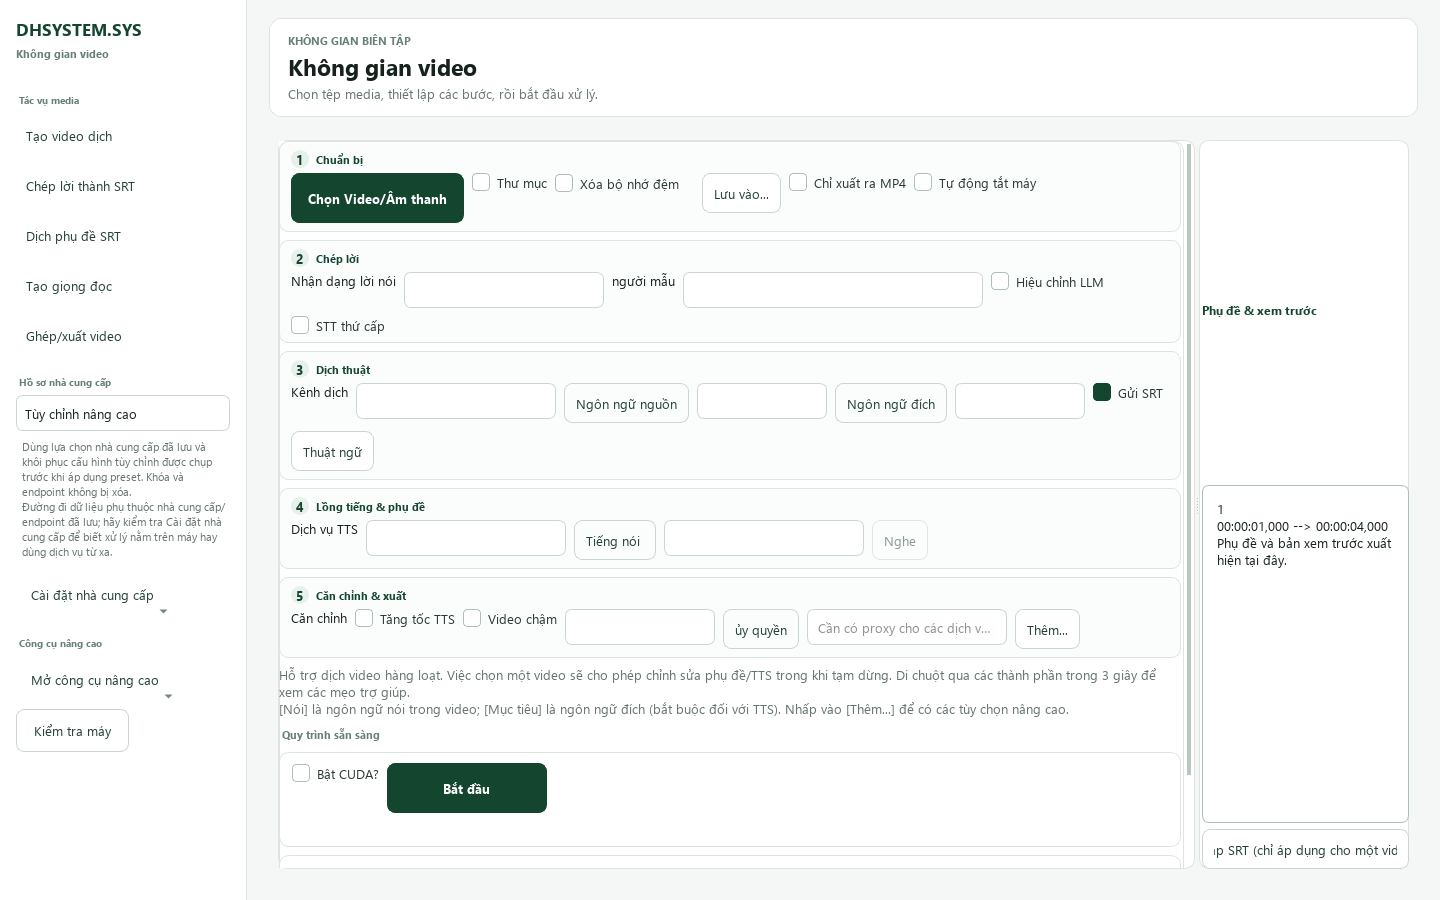
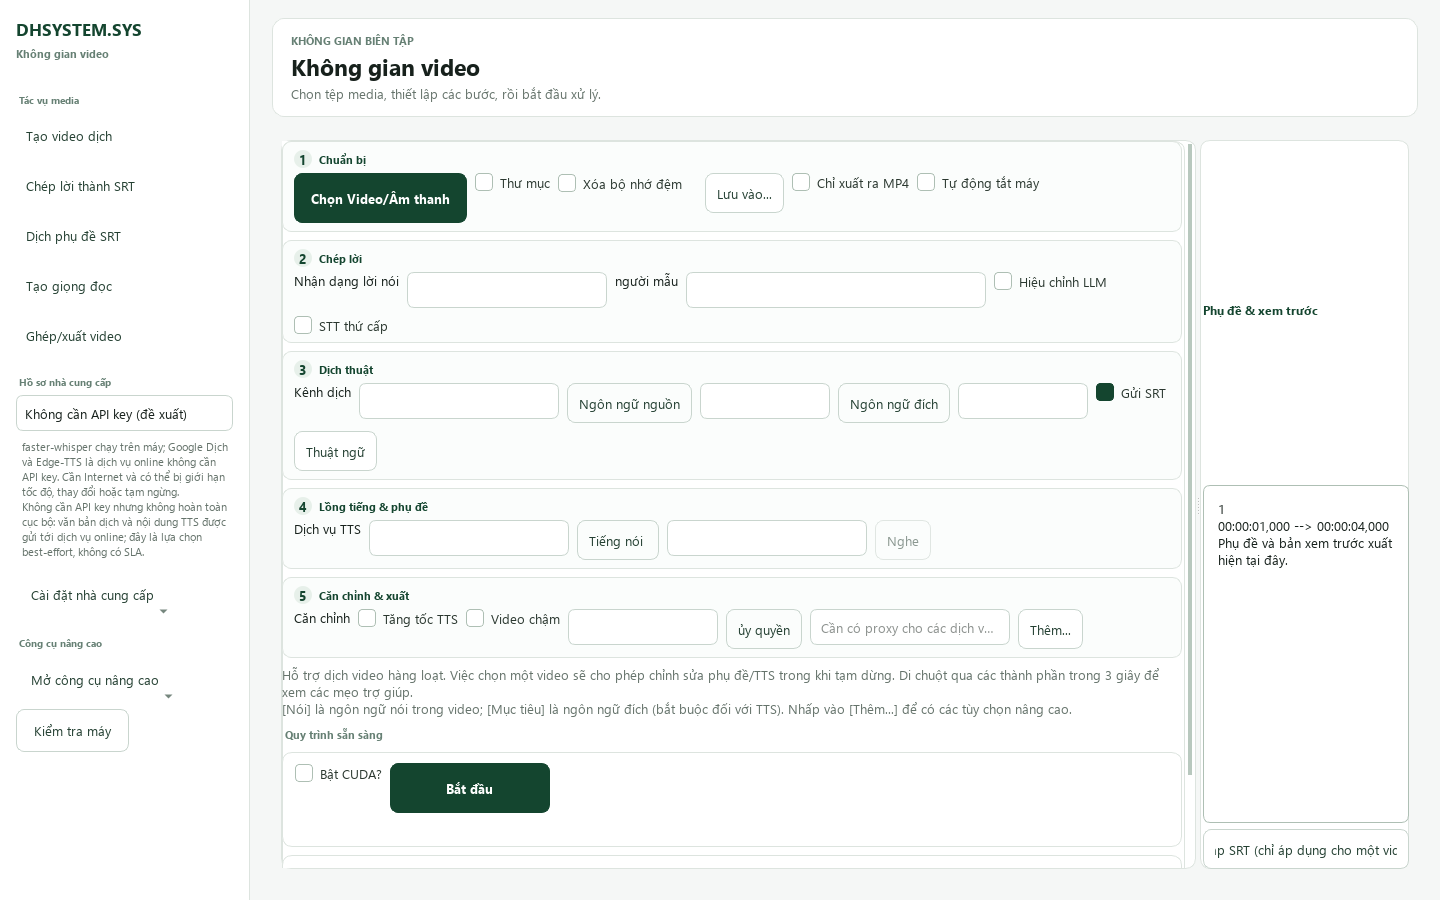
docs(providers): explain no-key and API cost boundaries

diff --git a/tests/test_light_workspace.py b/tests/test_light_workspace.py
@@ -6,7 +6,9 @@ from PySide6.QtGui import QAction
 from PySide6.QtWidgets import QApplication, QMainWindow, QMessageBox, QMenu, QToolBar, QWidget
 
 from videotrans.ui.en import Ui_MainWindow
-from videotrans.ui.provider_profiles import PROFILE_CUSTOM, PROFILE_GEMINI, PROFILE_LOCAL
+from videotrans.ui.provider_profiles import (
+    PROFILE_CUSTOM, PROFILE_GEMINI, PROFILE_LOCAL, PROFILE_NO_KEY,
+)
 from videotrans.ui import workspace_shell
 from videotrans.ui.workspace_shell import WorkspaceShell
 
@@ -189,6 +191,41 @@ def test_remote_profile_explains_privacy_quota_and_fallback_before_apply(monkeyp
     assert "quota" in prompt
     assert "data policy" in prompt or "chính sách dữ liệu" in prompt
     assert "fallback" in prompt or "dự phòng" in prompt
+
+
+def test_no_key_profile_discloses_online_best_effort_limits_before_apply(monkeypatch):
+    class ProfileWindow(_WindowDouble):
+        def __init__(self):
+            super().__init__()
+            self.profile = PROFILE_CUSTOM
+            self.applied = []
+
+        def current_provider_profile(self):
+            return self.profile
+
+        def apply_provider_profile(self, profile):
+            self.applied.append(profile)
+            self.profile = profile
+
+    prompts = []
+    monkeypatch.setattr(
+        QMessageBox,
+        "question",
+        lambda *args: prompts.append(args[2]) or QMessageBox.StandardButton.Yes,
+    )
+    window = ProfileWindow()
+    shell = WorkspaceShell(window, QWidget())
+
+    shell.provider_profile.setCurrentIndex(
+        shell.provider_profile.findData(PROFILE_NO_KEY)
+    )
+
+    assert window.applied == [PROFILE_NO_KEY]
+    prompt = prompts[0].lower()
+    assert "api key" in prompt
+    assert "internet" in prompt
+    assert "rate" in prompt or "giới hạn" in prompt
+    assert shell.provider_settings.toolTip()
 
 
 @pytest.mark.parametrize("endpoint", ("", "https://api.example.com/v1", "http://192.168.1.20:8000/v1"))

diff --git a/tests/test_provider_visibility.py b/tests/test_provider_visibility.py
@@ -3,12 +3,15 @@ import os
 os.environ.setdefault("QT_QPA_PLATFORM", "offscreen")
 
 import pytest
+from PySide6.QtCore import Qt
 from PySide6.QtWidgets import QApplication, QComboBox
 
 from videotrans import recognition, translator, tts
+from videotrans.configure._i18n import tr
 from videotrans.ui.provider_visibility import (
     CUSTOM_ENDPOINT,
     LOCAL_MODEL,
+    LOCAL_SERVICE,
     ONLINE_NO_KEY,
     PROVIDER_API,
     RECOGNITION,
@@ -120,6 +123,30 @@ def test_access_categories_distinguish_bundled_online_and_paid_api_paths():
     assert provider_access(TTS, tts.TTS_API).category == CUSTOM_ENDPOINT
     assert provider_access(TTS, tts.EDGE_TTS).api_key_required is False
     assert provider_access(TRANSLATION, translator.CHATGPT_INDEX).provider_charge_possible is True
+
+
+@pytest.mark.parametrize(
+    ("kind", "names"),
+    (
+        (TRANSLATION, translator.TRANSLASTE_NAME_LIST),
+        (RECOGNITION, recognition.RECOGN_NAME_LIST),
+        (TTS, tts.TTS_NAME_LIST),
+    ),
+)
+def test_every_provider_row_has_localized_cost_readiness_guidance(kind, names):
+    combo = QComboBox()
+    combo.addItems(names)
+
+    apply_combo_visibility(combo, kind)
+
+    for provider_id in range(len(names)):
+        access = provider_access(kind, provider_id)
+        assert access.category in {
+            LOCAL_MODEL, ONLINE_NO_KEY, PROVIDER_API, LOCAL_SERVICE, CUSTOM_ENDPOINT,
+        }
+        assert combo.itemData(provider_id, Qt.ItemDataRole.ToolTipRole) == tr(
+            access.guidance_key
+        )
 
 
 def test_settings_menu_policy_hides_china_focused_actions_but_can_restore_them():

diff --git a/videotrans/ui/provider_visibility.py b/videotrans/ui/provider_visibility.py
@@ -207,6 +207,9 @@ def visible_provider_ids(kind: str, *, show_all: bool = False, selected_id: int 
 
 def apply_combo_visibility(combo, kind: str, *, show_all: bool = False):
     """Hide model rows in place and return the IDs that remain visible."""
+    from PySide6.QtCore import Qt
+    from videotrans.configure._i18n import tr
+
     _validate_kind(kind)
     registry_ids = tuple(_REGISTRIES[kind])
     if combo.count() != len(registry_ids):
@@ -219,6 +222,11 @@ def apply_combo_visibility(combo, kind: str, *, show_all: bool = False):
     ))
     view = combo.view()
     for provider_id in registry_ids:
+        combo.setItemData(
+            provider_id,
+            tr(provider_access(kind, provider_id).guidance_key),
+            Qt.ItemDataRole.ToolTipRole,
+        )
         view.setRowHidden(provider_id, provider_id not in visible)
     return tuple(provider_id for provider_id in registry_ids if provider_id in visible)
 

diff --git a/scripts/capture_readme_screenshots.py b/scripts/capture_readme_screenshots.py
@@ -34,11 +34,16 @@ from videotrans.ui.en import Ui_MainWindow
 from videotrans.ui.home import HomePage
 from videotrans.ui.systemcheck import Ui_systemcheck
 from videotrans.ui.workspace_shell import WorkspaceShell
+from videotrans.ui.provider_profiles import PROFILE_NO_KEY
 
 
 class _GeneratedWindow(QMainWindow, Ui_MainWindow):
     def show_home(self):
         """WorkspaceShell requires the same route exposed by MainWindow."""
+
+    def current_provider_profile(self):
+        """Keep documentation captures on the fresh-install recommendation."""
+        return PROFILE_NO_KEY
 
 
 def _save_widget(app: QApplication, widget, path: Path, size: tuple[int, int]) -> None:

diff --git a/videotrans/ui/workspace_shell.py b/videotrans/ui/workspace_shell.py
@@ -93,6 +93,7 @@ class WorkspaceShell(QWidget):
         self.provider_settings = QToolButton(sidebar)
         self.provider_settings.setObjectName("workspaceProviderSettings")
         self.provider_settings.setText(tr("Provider settings"))
+        self.provider_settings.setToolTip(tr("Provider visibility guidance"))
         self.provider_settings.setToolButtonStyle(Qt.ToolButtonStyle.ToolButtonTextOnly)
         self.provider_settings.setPopupMode(QToolButton.ToolButtonPopupMode.InstantPopup)
         self.provider_settings.setMenu(self._build_provider_settings())

diff --git a/README.md b/README.md
@@ -7,7 +7,7 @@
 [![Version](https://img.shields.io/badge/version-4.14-14452F)](pyproject.toml)
 [![Python](https://img.shields.io/badge/Python-3.10%E2%80%933.12-3776AB?logo=python&logoColor=white)](docs/runtime-matrix.md)
 [![Windows](https://img.shields.io/badge/Windows-portable%20%7C%20setup-0078D4?logo=windows)](docs/huong-dan-cai-dat-windows.md)
-[![Tests](https://img.shields.io/badge/tests-705%20passed-success)](.DHSYSTEM/TRACKER.md)
+[![Tests](https://img.shields.io/badge/tests-726%20passed-success)](.DHSYSTEM/TRACKER.md)
 [![License](https://img.shields.io/badge/license-GPL--3.0-blue)](LICENSE)
 
 [Bắt đầu](#bắt-đầu-nhanh) · [Tính năng](#tính-năng-chính) · [CLI](#dòng-lệnh-cli) · [WebUI](#webui) · [Tài liệu](#tài-liệu) · [Trạng thái](#trạng-thái-hiện-tại)
@@ -94,6 +94,8 @@ Luồng cơ bản cho một video:
 4. **Lồng tiếng & phụ đề:** chọn dịch vụ TTS, giọng đọc và kiểu phụ đề. Chọn `No` nếu không cần lồng tiếng.
 5. **Căn chỉnh & xuất:** kiểm tra tùy chọn thời gian, nhấn **Bắt đầu**, rồi đọc biên nhận đầu ra khi hoàn tất.
 
+Hồ sơ mặc định **Không cần API key (đề xuất)** dùng faster-whisper trên máy, Google Dịch và Edge-TTS. Đây là cách bắt đầu không cần mua/nạp API, nhưng Google Dịch và Edge-TTS vẫn là dịch vụ online best-effort: cần Internet, có thể bị giới hạn tốc độ, thay đổi hoặc tạm ngừng và không có SLA. faster-whisper không tốn phí API nhưng lần đầu phải tải model và dùng tài nguyên máy.
+
 Profile **Cục bộ** chỉ được coi là local-only khi endpoint Local LLM dùng loopback (`localhost`, `127.0.0.1` hoặc `::1`). Gemini/OpenRouter và các API từ xa có thể gửi dữ liệu ra khỏi máy; hãy đọc chính sách của provider trước khi dùng nội dung nhạy cảm.
 
 Hướng dẫn thao tác, phụ đề, VieNeu và xử lý lỗi: [Kiểm thử và sử dụng](docs/huong-dan-test-va-su-dung.md).
@@ -146,6 +148,8 @@ Không commit mật khẩu. Nếu đưa WebUI ra Internet, đặt HTTPS ở reve
 
 ## Provider và mô hình
 
+Giao diện mặc định chỉ hiện nhóm provider phổ biến cho Việt Nam/quốc tế. Các tích hợp Trung Quốc hoặc ít dùng hơn **không bị xóa**: bật **Hiện tất cả nhà cung cấp** trong một trong ba menu Cài đặt dịch/nhận dạng/lồng tiếng để khôi phục toàn bộ 29 kênh dịch, 33 kênh nhận dạng và 38 kênh TTS. Lựa chọn cũ nằm ngoài danh sách rút gọn vẫn được giữ nguyên và luôn hiện khi đang được chọn.
+
 | Nhóm | Ví dụ được tích hợp | Ghi chú |
 | --- | --- | --- |
 | Nhận dạng | faster-whisper, Whisper/OpenAI, WhisperX, Qwen, Deepgram, Azure, Google | Local và cloud; model lớn cần thêm tài nguyên. |
@@ -153,7 +157,17 @@ Không commit mật khẩu. Nếu đưa WebUI ra Internet, đặt HTTPS ở reve
 | Giọng đọc | Edge TTS, OpenAI-compatible, Azure, ElevenLabs, F5-TTS, GPT-SoVITS, VieNeu pilot | Một số kênh cần server/model chạy riêng hoặc khóa API. |
 | Công cụ media | FFmpeg/ffprobe, tách giọng, ghép audio/video/SRT, căn phụ đề | FFmpeg được bundle trong bản Windows. |
 
-Danh sách có thể thay đổi theo code và cấu hình. Dùng `cli.py --list providers` hoặc menu **Cài đặt nhà cung cấp** để xem dữ liệu chính xác của bản đang chạy. Không có API key, model có giấy phép chưa xác minh hay dữ liệu người dùng nào được bundle vào gói phân phối.
+Ý nghĩa nhãn và chi phí:
+
+| Nhãn/loại | Dùng ngay? | Chi phí thực tế |
+| --- | --- | --- |
+| `local · cần tải model` | Chưa chắc; ứng dụng có adapter nhưng model có thể chưa tải | Không có phí API nhà cung cấp; tốn dung lượng đĩa và tài nguyên CPU/GPU/RAM, đồng thời phải tuân thủ giấy phép model. |
+| Online, không cần API key | Cần Internet | Không cần mua khóa API, nhưng dịch vụ có thể rate-limit/thay đổi/ngừng và không có SLA. |
+| API nhà cung cấp | Cần tài khoản, khóa và cấu hình | Có thể có trial/free tier, nhưng quota thay đổi và phần vượt mức có thể tính phí. |
+| Local API/server | Cần tự cài, tải model và chạy server riêng | Không có phí API khi endpoint thực sự chạy trên máy; vẫn có chi phí phần cứng/điện/vận hành. |
+| Endpoint tùy chỉnh | Phụ thuộc server được nhập | Khóa, chi phí và việc dữ liệu có rời máy hay không do endpoint đó quyết định. |
+
+Danh sách có thể thay đổi theo code và cấu hình. Dùng `cli.py --list providers` hoặc bật **Hiện tất cả nhà cung cấp** để xem dữ liệu chính xác của bản đang chạy. Không có API key, model có giấy phép chưa xác minh hay dữ liệu người dùng nào được bundle vào gói phân phối.
 
 ## Trạng thái hiện tại
 
@@ -161,7 +175,7 @@ Kiểm chứng gần nhất ngày **07/10/2026**:
 
 | Hạng mục | Trạng thái |
 | --- | --- |
-| Bộ test nguồn | **705 passed**, 1 cảnh báo ngoài dự án từ `pydub/audioop`, Python 3.12.14 |
+| Bộ test nguồn | **726 passed**, 1 cảnh báo ngoài dự án từ `pydub/audioop`, Python 3.12.14 |
 | Giao diện | Việt/Anh, 5 bước, trang chủ, công cụ nhanh, Kiểm tra máy |
 | Windows portable/Setup | Build và xác minh local đạt; portable chạy không cần Python trên `PATH` |
 | Vòng đời cài đặt | Cài, mở hai lần, nâng cấp cùng version, gỡ và giữ dữ liệu người dùng đạt trên developer-host |

diff --git a/docs/huong-dan-test-va-su-dung.md b/docs/huong-dan-test-va-su-dung.md
@@ -158,7 +158,14 @@ uv run --python 3.12.13 --locked sp.py
 
 Hoặc giải nén toàn bộ bản Windows ứng viên rồi mở `sp.exe`; không chạy ngay trong file ZIP. Trên **trang chủ Xưởng Video**, ngôn ngữ giao diện chỉ có **Tiếng Việt** và **English**; đổi ngôn ngữ sẽ hỏi khởi động lại. `Mở không gian video` dẫn đến màn hình chính. Bốn công cụ nhanh là **Chép lời**, **Dịch SRT**, **Nhiều người nói** và **Ghép video/âm thanh/SRT**. Menu và danh mục công cụ trong không gian làm việc vẫn có các mục nâng cao.
 
-Trong không gian làm việc, phần cơ bản chỉ đưa ra năm tác vụ media và một lối vào **Tất cả công cụ**; cấu hình provider nằm riêng trong **Cài đặt provider**. Ba profile là **Hồ sơ cục bộ (cần Local LLM)**, **Gemini API (quota miễn phí)** và **Tùy chỉnh nâng cao**. Hồ sơ cục bộ chỉ được xem là `local-only` khi endpoint Local LLM là loopback (`localhost`, `127.0.0.1`/dải `127.0.0.0/8` hoặc `::1`). Nếu endpoint trống, là địa chỉ LAN/private hoặc public, ứng dụng cảnh báo và không đổi profile/provider đã chọn. Gemini là remote/off-device nên hộp xác nhận nêu chính sách dữ liệu, quota/rate-limit không phải SLA và phương án dự phòng trước khi áp dụng. OpenRouter khi được chọn trong **Tùy chỉnh nâng cao** cũng là dịch vụ remote/off-device và chịu quota/rate-limit của nhà cung cấp. Khi quay lại **Tùy chỉnh nâng cao**, ứng dụng khôi phục chính xác lựa chọn provider tùy chỉnh trước đó và không tự xóa khóa API/endpoint đã lưu.
+Trong không gian làm việc, phần cơ bản chỉ đưa ra năm tác vụ media và một lối vào **Tất cả công cụ**; cấu hình provider nằm riêng trong **Cài đặt provider**. Bốn profile là **Không cần API key (đề xuất)**, **Hồ sơ cục bộ (cần Local LLM)**, **Gemini API (có thể có free tier)** và **Tùy chỉnh nâng cao**.
+
+- **Không cần API key** chọn faster-whisper + Google Dịch + Edge-TTS. faster-whisper chạy trên máy và phải tải model; hai bước còn lại dùng Internet, không cần khóa nhưng là best-effort, có thể rate-limit/thay đổi/tạm ngừng và không có SLA. Đây là lựa chọn bắt đầu không cần nạp tiền API, không phải cam kết miễn phí vô hạn.
+- **Hồ sơ cục bộ** chỉ được xem là `local-only` khi endpoint Local LLM là loopback (`localhost`, `127.0.0.1`/dải `127.0.0.0/8` hoặc `::1`). Nếu endpoint trống, là địa chỉ LAN/private hoặc public, ứng dụng cảnh báo và không đổi profile/provider đã chọn.
+- **Gemini** là remote/off-device nên hộp xác nhận nêu chính sách dữ liệu, quota/rate-limit không phải SLA và phương án dự phòng trước khi áp dụng. Free tier nếu có phụ thuộc chính sách hiện hành của Google, không phải quyền sử dụng vô hạn.
+- **Tùy chỉnh nâng cao** giữ các nhà cung cấp/endpoint đã lưu. OpenRouter và API từ xa có thể gửi dữ liệu ra khỏi máy, cần khóa/tài khoản và có thể tính phí. Khi quay lại profile này, ứng dụng khôi phục chính xác lựa chọn trước đó, không tự xóa khóa API/endpoint.
+
+Danh sách provider mặc định được rút gọn cho Việt Nam/quốc tế. Các tích hợp Trung Quốc/ít phổ biến vẫn còn nguyên ID và module; bật **Hiện tất cả nhà cung cấp** trong menu Cài đặt dịch, lồng tiếng hoặc nhận dạng để hiện lại. Cài đặt cũ đang chọn một mục bị ẩn vẫn giữ nguyên và mục đó tiếp tục hiện. Nhãn `local · cần tải model` chỉ có nghĩa adapter được tích hợp trong ứng dụng: model không nhất thiết đã tải, vẫn cần dung lượng/tài nguyên máy và có thể có điều khoản giấy phép riêng.
 
 Trước khi chạy tác vụ nặng hoặc khi gửi bản đóng gói sang máy khác, mở **Kiểm tra máy** từ khu vực trợ giúp hoặc nút kiểm tra trong workspace. Màn hình này chỉ đọc trạng thái máy và chia kết quả theo tác vụ cơ bản, CPU/local và GPU; nó **không tự cài** driver, CUDA, model hay phần mềm hệ thống. Bấm **Làm mới** để quét lại, **Sao chép** để lấy tóm tắt hỗ trợ hoặc **Xuất báo cáo** để lưu báo cáo đã loại thông tin nhạy cảm/đường dẫn riêng tư. Trạng thái cảnh báo ở GPU hoặc local AI không có nghĩa tác vụ CPU/cloud cơ bản bị chặn; đọc từng thẻ để biết phần nào dùng được ngay và phần nào cần hành động.
 

diff --git a/CHANGELOG.md b/CHANGELOG.md
@@ -2,7 +2,7 @@
 
 ## Unreleased
 
-Planned ENH-007 for the 4.15.0 line: reduce provider noise for Vietnamese/global users with a reversible curated view, a no-key recommended profile and explicit local/download/API-cost guidance. Existing provider IDs, credentials and saved selections remain available through **Show all providers**; the current product manifest remains 4.14 until release gates pass.
+ENH-007 is implemented for the 4.15.0 line: provider menus and desktop combo boxes now default to a reversible Viet Nam/global curated view, offer a no-API-key recommended profile, and explain local model downloads, best-effort online services, local servers and potentially billable APIs. Existing provider IDs, credentials and saved selections remain available through **Show all providers**. 75 focused and 726 full Python 3.12.14 tests pass with one external `pydub/audioop` warning; the current product manifest remains 4.14 until independent release gates pass.
 
 Planned ENH-005 for the 4.15.0 line: add a GitHub-independent local distribution path with portable ZIP and per-user Setup.exe, plus a Vietnamese/English “Kiểm tra máy” surface that reports workload-specific CPU/RAM/disk/GPU/runtime readiness. Any remediation is explicit, allowlisted and re-verified; Python/Qt/FFmpeg stay bundled, while drivers/CUDA/large models remain guided or opt-in.
 

diff --git a/.DHSYSTEM/phases/7/tasks/7.3.md b/.DHSYSTEM/phases/7/tasks/7.3.md
@@ -13,6 +13,8 @@ videotrans/ui/provider_visibility.py
 videotrans/ui/workspace_shell.py
 README.md
 docs/huong-dan-test-va-su-dung.md
+docs/assets/readme/workspace-vi.png
+scripts/capture_readme_screenshots.py
 tests/test_provider_visibility.py
 tests/test_light_workspace.py
 ```
@@ -31,6 +33,8 @@ tests/test_light_workspace.py
 - `videotrans/ui/workspace_shell.py` — add concise guidance to the provider settings entry point.
 - `README.md` — document curated visibility, show-all recovery and a provider cost/readiness matrix.
 - `docs/huong-dan-test-va-su-dung.md` — update the desktop walkthrough to four profiles and explain the practical no-key workflow and limitations.
+- `docs/assets/readme/workspace-vi.png` — regenerate the sanitized current-workspace screenshot so README reflects the new profile selector.
+- `scripts/capture_readme_screenshots.py` — select the recommended no-key profile in deterministic documentation captures.
 - `tests/test_provider_visibility.py` — verify every registry provider receives one localized guidance category/tooltip.
 - `tests/test_light_workspace.py` — verify the new no-key disclosure is visible before applying the profile.
 
